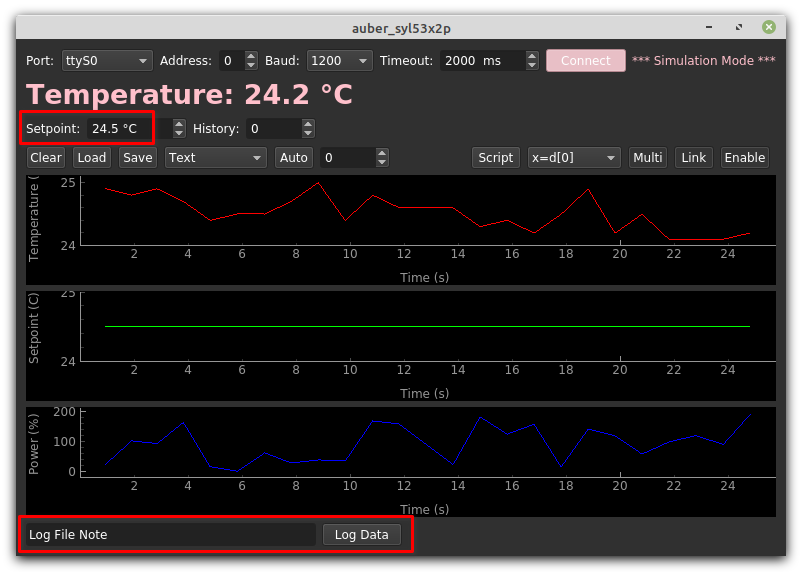
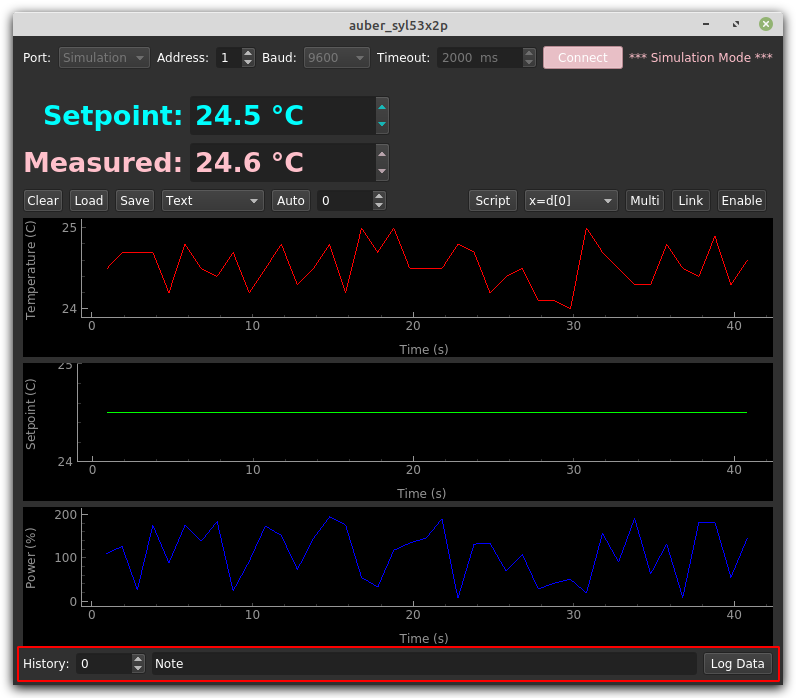
visual

diff --git a/instruments/_auber_syl53x2p.py b/instruments/_auber_syl53x2p.py
@@ -155,24 +155,31 @@ class auber_syl53x2p(_serial_tools.serial_gui_base):
         # Run the base class stuff, which shows the window at the end.
         _serial_tools.serial_gui_base.__init__(self, api_class=auber_syl53x2p_api, name=name, show=False, window_size=window_size)
 
-        style_big = 'font-size: 20pt; font-weight: bold; color: '+('pink' if _s.settings['dark_theme_qt'] else 'red')
+        self.window.set_size([0,0])
+
+        style_big_blue = 'font-size: 20pt; font-weight: bold; color: '+('cyan' if _s.settings['dark_theme_qt'] else 'blue')
+        style_big_red  = 'font-size: 20pt; font-weight: bold; color: '+('pink' if _s.settings['dark_theme_qt'] else 'red')
+        style_big      = 'font-size: 20pt; font-weight: bold; color: '+('yellow' if _s.settings['dark_theme_qt'] else 'purple')
 
         # Add GUI stuff to the bottom grid
-        self.label_temperature = self.grid_bot.add(_g.Label('Temperature:')).set_style(style_big)
-        self.number_temperature = self.grid_bot.add(_g.NumberBox(
-            value=-273.16, suffix='°C', tip='Last recorded temperature value.'
-            )).set_width(200).set_style(style_big)
-        self.label_temperature_status = self.grid_bot.add(_g.Label('(unknown)')).set_style(style_big)
+        self.grid_bot.add(_g.Label('Setpoint:'), alignment=2).set_style(style_big_blue)
+
+        self.number_setpoint = self.grid_bot.add(_g.NumberBox(
+            -273.16, bounds=(-273.16, 500), suffix='°C',
+            signal_changed=self._number_setpoint_changed
+            )).set_width(200).set_style(style_big_blue)
+        self.label_temperature_status = self.grid_bot.add(_g.Label(
+            '(unknown)'), row_span=2).set_style(style_big)
 
         self.grid_bot.new_autorow()
-
-        self.grid_bot.grid_controls = self.grid_bot.add(_g.GridLayout(margins=False))
-
-        self.grid_bot.grid_controls.add(_g.Label('Setpoint:'))
-
-        self.number_setpoint = self.grid_bot.grid_controls.add(_g.NumberBox(
-            -273.16, bounds=(-273.16, 500), suffix='°C',
-            signal_changed=self._number_setpoint_changed)).set_width(100)
+        self.grid_bot.add(_g.Label('Measured:'), alignment=2).set_style(style_big_red)
+        
+        self.number_temperature = self.grid_bot.add(_g.NumberBox(
+            value=-273.16, suffix='°C', tip='Last recorded temperature value.'
+            )).set_width(200).disable().set_style(style_big_red)
+        
+        
+        self.grid_bot.new_autorow()
 
         # Make the plotter.
         self.grid_bot.new_autorow()
@@ -245,6 +252,7 @@ class auber_syl53x2p(_serial_tools.serial_gui_base):
 
 
 if __name__ == '__main__':
+    _egg.clear_egg_settings()
     #self = _serial_gui_base(auber_syl53x2p_api)
     self = auber_syl53x2p()
     #self = auber_syl53x2p_api()
